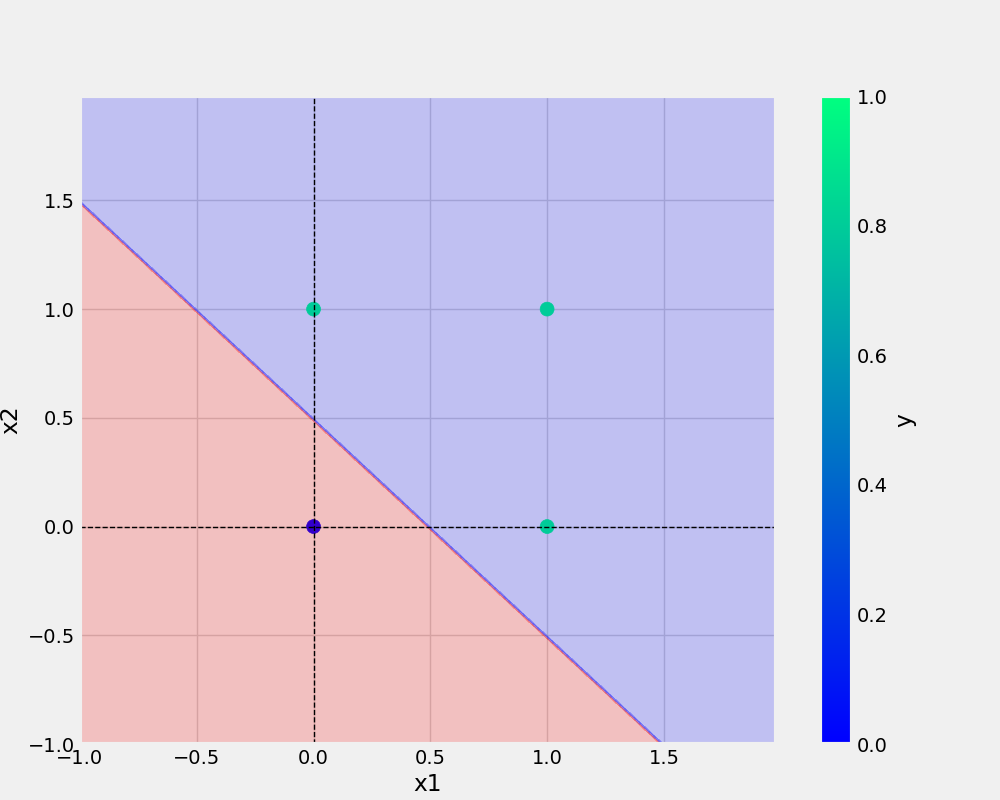
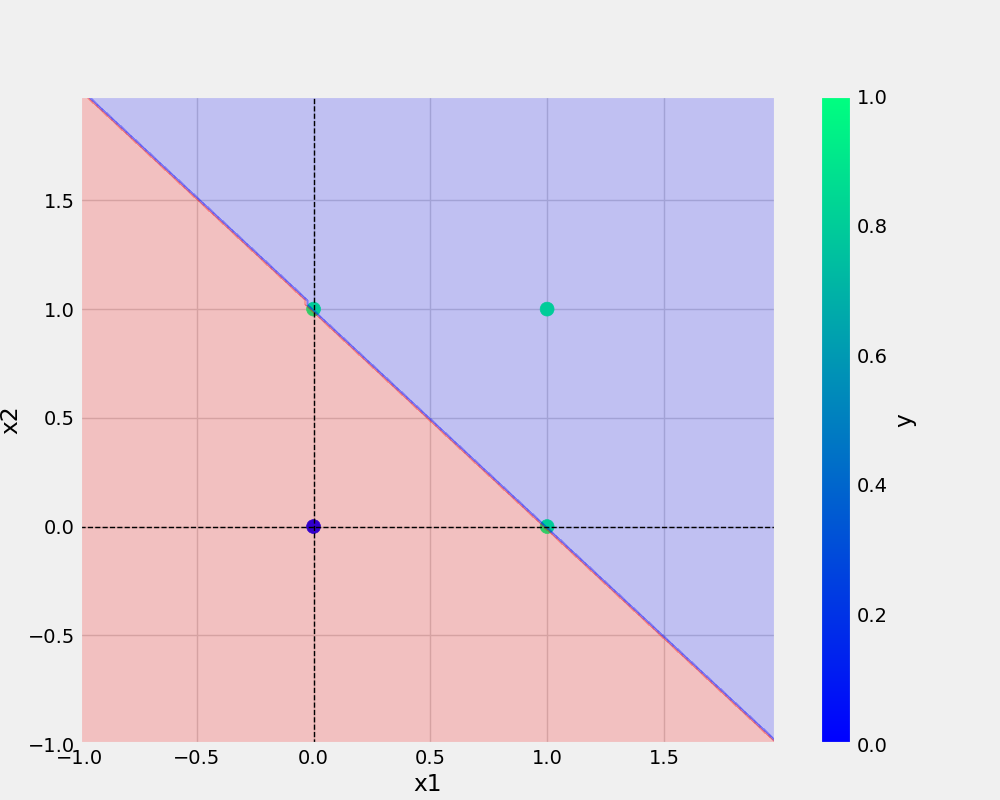
logging added and progress bar

Changed region(s): [[0.062, 0.125, 0.775, 0.9375]]

diff --git a/utils/all_utils.py b/utils/all_utils.py
@@ -1,3 +1,4 @@
+import logging
 import matplotlib.pyplot as plt
 import pandas as pd
 import joblib
@@ -16,6 +17,8 @@ def prepare_data(df):
     Returns:
         tuple: it will return a tuple of dependent and independent variable
     """
+    logging.info(
+        "preparing the data by segregating the dependent and independent variables")
     X = df.drop("y", axis=1)
 
     y = df["y"]
@@ -30,11 +33,13 @@ def save_model(model, filename):
         model (trained model): it will save the trained model
         filename (string): file where trained model will be saved
     """
+    logging.info("saving the model in a file")
     model_dir = "models"
     # ONLY CREATE IF MODEL_DIR DOESN"T EXISTS
     os.makedirs(model_dir, exist_ok=True)
     filePath = os.path.join(model_dir, filename)  # model/filename
     joblib.dump(model, filePath)
+    logging.info(f"this is saving the model at {filePath}")
 
 
 def save_plot(df, file_name, model):
@@ -43,8 +48,10 @@ def save_plot(df, file_name, model):
         df (pandas dataframe): it a pandas dataframe      file_name (_type_): _description_
         model (string): trained
     """
+    logging.info("saving the model")
 
     def _create_base_plot(df):
+        logging.info("creating the base plots")
         df.plot(kind="scatter", x="x1", y="x2", c="y", s=100, cmap="winter")
         plt.axhline(y=0, color="black", linestyle="--", linewidth=1)
         plt.axvline(x=0, color="black", linestyle="--", linewidth=1)
@@ -52,6 +59,7 @@ def save_plot(df, file_name, model):
         figure.set_size_inches(10, 8)
 
     def _plot_decision_regions(X, y, classfier, resolution=0.02):
+        logging.info("plotting the decision regions")
         colors = ("red", "blue", "lightgreen", "gray", "cyan")
         cmap = ListedColormap(colors[: len(np.unique(y))])
 
@@ -83,3 +91,4 @@ def save_plot(df, file_name, model):
     os.makedirs(plot_dir, exist_ok=True)
     plotPath = os.path.join(plot_dir, file_name)  # model/filename
     plt.savefig(plotPath)
+    logging.info("saving the info at {plotPath}")

diff --git a/utils/model.py b/utils/model.py
@@ -1,10 +1,12 @@
 import numpy as np
+import logging
+from tqdm import tqdm
 
 
 class Perceptron:
     def __init__(self, eta, epochs):
         self.weights = np.random.randn(3) * 1e-4  # SMALL WEIGHT INIT
-        print(f"initial weights before training: \n{self.weights}")
+        logging.info(f"initial weights before training: \n{self.weights}")
         self.eta = eta  # LEARNING RATE
         self.epochs = epochs
 
@@ -18,23 +20,23 @@ class Perceptron:
 
         X_with_bias = np.c_[
             self.X, -np.ones((len(self.X), 1))]  # CONCATINATION
-        print(f"X with bias: \n{X_with_bias}")
+        logging.info(f"X with bias: \n{X_with_bias}")
 
-        for epoch in range(self.epochs):
-            print("--"*10)
-            print(f"for epoch: {epoch}")
-            print("--"*10)
+        for epoch in tqdm(range(self.epochs), total=self.epochs, desc="training the model"):
+            logging.info("--"*10)
+            logging.info(f"for epoch: {epoch}")
+            logging.info("--"*10)
 
             y_hat = self.activationFunction(
                 X_with_bias, self.weights)  # foward propagation
-            print(f"predicted value after forward pass: \n{y_hat}")
+            logging.info(f"predicted value after forward pass: \n{y_hat}")
             self.error = self.y - y_hat
-            print(f"error: \n{self.error}")
+            logging.info(f"error: \n{self.error}")
             self.weights = self.weights + self.eta * \
                 np.dot(X_with_bias.T, self.error)  # backward propagation
-            print(
+            logging.info(
                 f"updated weights after epoch:\n{epoch}/{self.epochs} : \n{self.weights}")
-            print("#####"*10)
+            logging.info("#####"*10)
 
     def predict(self, X):
         X_with_bias = np.c_[X, -np.ones((len(X), 1))]
@@ -42,5 +44,5 @@ class Perceptron:
 
     def total_loss(self):
         total_loss = np.sum(self.error)
-        print(f"total loss: {total_loss}")
+        logging.info(f"total loss: {total_loss}")
         return total_loss

diff --git a/or.py b/or.py
@@ -1,14 +1,27 @@
+"""author:premsai
+    email:premsaishoo@gmail.com
+    """
+
 from utils.model import Perceptron
 import pandas as pd
 from utils.all_utils import prepare_data, save_model, save_plot
 import numpy as np
+import logging
+import os
+
+logging_str = "[%(asctime)s: %(levelname)s: %(module)s]%(message)s"
+
+log_dir = "logs"
+os.makedirs(log_dir, exist_ok=True)  # now we have created this log direactory
+logging.basicConfig(filename=os.path.join(
+    log_dir, "running_logs.log"), level=logging.INFO, format=logging_str, filemode="a")
 
 
 def main(data, eta, epochs, filename, plotFileName):
 
     df = pd.DataFrame(data)
 
-    print(df)
+    logging.info(f"this is the actual dataframe:{df}")
 
     X, y = prepare_data(df)
 
@@ -23,13 +36,20 @@ def main(data, eta, epochs, filename, plotFileName):
 
 if __name__ == "__main__":
 
-    AND = {
+    OR = {
         "x1": [0, 0, 1, 1],
         "x2": [0, 1, 0, 1],
         "y": [0, 1, 1, 1],
     }
 
     ETA = 0.3  # 0 and 1
-    EPOCHS = 10
-    main(data=AND, eta=ETA, epochs=EPOCHS,
-         filename="or.model", plotFileName="or.png")
+    EPOCHS = 100
+    try:
+        logging.info("<<<<< starting training>>>>>")
+        main(data=OR, eta=ETA, epochs=EPOCHS,
+             filename="or.model", plotFileName="or.png")
+
+        logging.info("<<<<training successfully done>>>>\n")
+
+    except Exception as e:
+        logging.exception(e)

diff --git a/README.md b/README.md
@@ -1,2 +1,30 @@
 # PERCEPTRON-CLASS
+
 BASICS OF PERCEPTRON CLASS
+
+## basic comand
+
+# 2 git clone https://github.com/premsaisahoo/PERCEPTRON.git
+
+    3  git clone https://github.com/premsaisahoo/ERCEPTRON.git
+    4  ls
+    5  cd ERCEPTRON/
+    6  code .
+    7  mkdir utils
+    8  touch and.py
+    9  touch or.py
+
+10 touch utils/**init**.py
+11 touch utils/model.py
+12 touch utils/all_utils.py
+13 touch -r requirements.txt
+14 touch requirements.txt
+15 conda env list
+16 conda activate oneneuron2
+17 conda env list
+18 history
+
+## command used to run
+
+git add . && git commit -m"docstring updated" && git push origin main
+9 history
